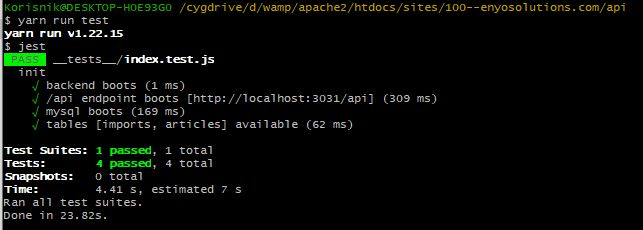
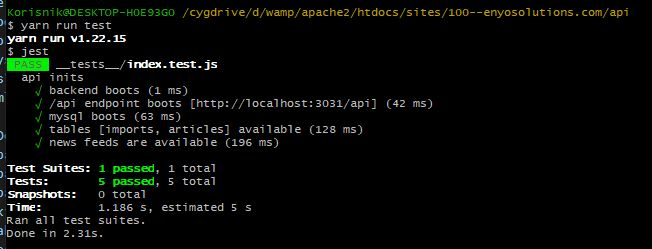
articles resource done

Changed region(s): [[0.0, 0.0, 0.9642, 1.0]]

diff --git a/routes/api.js b/routes/api.js
@@ -1,14 +1,29 @@
 var express = require("express");
 var router = express.Router();
+const axios = require("axios");
 const { client } = require("../src/mysq-connection");
+const {
+  has,
+  isString,
+  longestString,
+  _map,
+  mysqlDate,
+  parseXmlString,
+  vowelCount,
+} = require("../src/util");
+//
+const FEEDS = [
+  "https://www.lemonde.fr/rss/une.xml",
+  "https://www.theguardian.com/world/europe-news/rss",
+];
 
 //
-// api welcome response
-// POST /api
-router.get("/", function (req, res, next) {
+// api about
+// GET /api
+router.get("/", (_req, res) => {
   res.json({
     "app.name": "demo:enyosolutions",
-    "api.github": "https://github.com/nikolav/demo-app-enyosolutions"
+    "api.github": "https://github.com/nikolav/demo-app-enyosolutions",
   });
 });
 //
@@ -16,15 +31,17 @@ router.get("/", function (req, res, next) {
 /////////// TESTS ///////////
 /////////////////////////////
 // POST /api/test
-// for db connection test
+// db connection test
 router.post("/test", (req, res) => {
-  client.query(`select '${req.body.test}' as test`, (_error, result, _cols) => {
+  client.query(`select ? as test`, [req.body.test], (_error, result, _cols) => {
     return res.json({
       test: result[0].test,
     });
   });
 });
-router.get("/test/tables", (req, res) => {
+// verify tables exist
+// fetch row counts
+router.get("/test/tables", (_req, res) => {
   client.query(
     `
       select 
@@ -41,10 +58,125 @@ router.get("/test/tables", (req, res) => {
     }
   );
 });
+// verify news feeds are on
+// fetch row content
+router.get("/test/feeds", (_req, res) => {
+  Promise.all(FEEDS.map((feed) => axios(feed))).then((feeds) => {
+    res.json({
+      feeds: _map(feeds, "data"),
+    });
+  });
+});
 //
 /////////////////////////////////////////
 /////////// ARTICLES RESOURCE ///////////
 /////////////////////////////////////////
+//
+// read all articles; +longest-word-by-vowel-count
+// GET /api/articles
+router.get("/articles", (_req, res) => {
+  client.query(`select * from articles`, (error, articles, _cols) => {
+    if (error) throw error;
+    //
+    res.json({
+      articles: articles.map((article) => {
+        // make groups with the same vowel count
+        // store words accordingly
+        //   {[key: number]: string[]}
+        const groupByVowelCount = article.title
+          .split(/\s+/)
+          .reduce((w, word) => {
+            const vcWord = vowelCount(word);
+            if (has(w, vcWord)) {
+              w[vcWord].push(word);
+            } else {
+              w[vcWord] = [word];
+            }
+            //
+            return w;
+          }, {});
 
+        return {
+          // take longest word in a group with max vowel count
+          "word-with-the-most-vowels-in-the-title": longestString(
+            groupByVowelCount[Math.max(...Object.keys(groupByVowelCount))]
+          ),
+          ...article,
+        };
+      }),
+    });
+  });
+});
+//
+// load articles
+// POST /api/articles/import/?siteRssUrl
+router.post("/articles/import", (req, res) => {
+  const { siteRssUrl: feed } = req.query;
+  if (!feed) return res.json(null);
+  // fetch feed
+  axios(feed).then(({ data }) => {
+    // @xml2js
+    // https://github.com/Leonidas-from-XIV/node-xml2js
+    parseXmlString(data, (error, feed) => {
+      if (error) throw error;
+      // save articles
+      feed.rss.channel[0].item.forEach(articleSave);
+      // save raw rss json
+      importsSave(JSON.stringify(feed));
+      // data saved, signal success
+      res.json({ status: 1 });
+    });
+    //
+  });
+  //
+});
 //
 module.exports = router;
+
+//
+// heplers
+function articleSave(article) {
+  const { title, link, description, pubDate: publicationDate } = article;
+  const externalId = getGuid(article);
+  const mainPicture = article["media:content"][0]["$"].url;
+  //
+  client.query(
+    `
+    insert into articles
+      (description, externalId, link, mainPicture, publicationDate, title)
+
+    values
+      (?, ?, ?, ?, ?, ?)
+
+    on duplicate key update
+      description      = values(description),
+      link             = values(link),
+      mainPicture      = values(mainPicture),
+      publicationDate  = values(publicationDate),
+      title            = values(title)
+    `,
+    [
+      description[0],
+      externalId,
+      link[0],
+      mainPicture,
+      mysqlDate(publicationDate[0]),
+      title[0],
+    ]
+  );
+}
+function importsSave(data) {
+  client.query(
+    `
+    insert into imports 
+      (rawContent)
+    values (?)
+  `,
+    [data]
+  );
+}
+//
+function getGuid(article) {
+  const guid = article.guid[0];
+  return guid ? (isString(guid) ? guid : guid._) : null;
+}

diff --git a/__tests__/index.test.js b/__tests__/index.test.js
@@ -3,7 +3,7 @@ const qs = require("qs");
 const { isNumeric } = require("../src/util");
 
 //
-const API_URL_DEV        = "http://localhost:3031/api";
+const API_URL_DEV = "http://localhost:3031/api";
 const API_URL_PRODUCTION = "https://demo-enyosolutions.herokuapp.com/api";
 //
 const API_URL = API_URL_DEV;
@@ -12,27 +12,24 @@ const API_URL = API_URL_DEV;
 //
 //
 //
-describe("init", () => {
+describe("api inits", () => {
   //
   // run empty test, verify app runs
   it("backend boots", () => {});
   //
-  // send dummy data to see if server got it
+  // fetch dummy data to see if server got it
   it(`/api endpoint boots [${API_URL}]`, (done) => {
-    axios({
-      method: "get",
-      url: API_URL,
-    })
+    axios(API_URL)
       .then(({ data }) => {
-        // all good, test success
         expect(data["app.name"]).toBe("demo:enyosolutions");
+        // all good, test success
         done();
       })
       .catch((error) => done({ error }));
   });
   //
   // test db connection
-  // send dummy query to see if db boots
+  // fetch dummy data to see if db is on
   it("mysql boots", (done) => {
     const testData = "TEST-DATA-2";
     axios({
@@ -44,22 +41,36 @@ describe("init", () => {
     })
       .then(({ data }) => {
         expect(data.test).toBe(testData);
+        // db query run ok
         done();
       })
       .catch((error) => done({ error }));
   });
   //
   // test if tables are there
-  // count records to see if totals get returned
+  // fetch record totals to see if they get returned
   it("tables [imports, articles] available", (done) => {
     axios({
       method: "get",
       url: `${API_URL}/test/tables`,
     })
       .then(({ data }) => {
+        expect([data.totalArticles, data.totalImports].every(isNumeric)).toBe(
+          true
+        );
+        done();
+      })
+      .catch((error) => done({ error }));
+  });
+  //
+  // verify news feeds are live
+  it("news feeds are available", (done) => {
+    axios(`${API_URL}/test/feeds`)
+      .then(({ data }) => {
         expect(
-          [data.totalArticles, data.totalImports].every(isNumeric)
+          data.feeds.every((feed) => null != feed && 0 < String(feed).length)
         ).toBe(true);
+        // reading feeds ok, signal ok
         done();
       })
       .catch((error) => done({ error }));

diff --git a/src/util/index.js b/src/util/index.js
@@ -1,5 +1,23 @@
+const { getType } = require("./get-type");
 const { isNumeric } = require("./is-numeric");
+const { isString } = require("./is-string");
+const { isObject } = require("./is-object");
+const { parseXmlString } = require("./xml-parser");
+const { mysqlDate } = require("./mysql-date");
+const { vowelCount } = require("./vowel-count");
+const { has } = require("./has");
+const { longestString } = require("./longest-string");
+const { map: _map } = require("lodash");
 //
 module.exports = {
+  getType,
+  has,
   isNumeric,
+  isObject,
+  isString,
+  longestString,
+  _map,
+  mysqlDate,
+  parseXmlString,
+  vowelCount,
 };

diff --git a/src/util/mysql-date.js b/src/util/mysql-date.js
@@ -1,0 +1,20 @@
+const mysqlDate = (date) => {
+  date = new Date(date);
+  date =
+    date.getUTCFullYear() +
+    "-" +
+    ("00" + (date.getUTCMonth() + 1)).slice(-2) +
+    "-" +
+    ("00" + date.getUTCDate()).slice(-2) +
+    " " +
+    ("00" + date.getUTCHours()).slice(-2) +
+    ":" +
+    ("00" + date.getUTCMinutes()).slice(-2) +
+    ":" +
+    ("00" + date.getUTCSeconds()).slice(-2);
+  return date;
+};
+
+module.exports = {
+  mysqlDate,
+};

diff --git a/mod.js b/mod.js
@@ -1,19 +1,2 @@
-const { client } = require("./src/mysq-connection");
 
-//
-client.connect(error => {
-    if (error)
-      throw error;
-    
-    client.query(
-        `select 'TEST-DATA' as test`,
-        (err, res, fields) => {
-            console.log(err);
-            console.log(res);
-            console.log(fields);
-
-        }
-    )
-
-});
-
+console.log("a'a".replace("'", "''"))

diff --git a/src/util/longest-string.js b/src/util/longest-string.js
@@ -1,0 +1,12 @@
+const longestString = (ls = []) =>
+  ls.reduce(
+    (s, text) => {
+      if (s.s.length < text.length) s.s = text;
+      return s;
+    },
+    { s: "" }
+  ).s;
+//
+module.exports = {
+  longestString,
+};

diff --git a/src/util/vowel-count.js b/src/util/vowel-count.js
@@ -1,0 +1,7 @@
+const reVowel = /^[aeiouy]$/i;
+const vowelCount = (text) =>
+  Array.prototype.filter.call(text, (ch) => reVowel.test(ch)).length;
+//
+module.exports = {
+  vowelCount,
+};

diff --git a/src/util/is-object.js b/src/util/is-object.js
@@ -1,0 +1,6 @@
+const { getType } = require("./get-type");
+const OBJECT = getType({});
+//
+module.exports = {
+  isObject: (node) => OBJECT === getType(node),
+};

diff --git a/src/util/has.js b/src/util/has.js
@@ -1,0 +1,4 @@
+const has_ = Function.prototype.call.bind(Object.prototype.hasOwnProperty);
+module.exports = {
+  has: (node, key) => has_(Object(node), key),
+};

diff --git a/src/util/is-string.js b/src/util/is-string.js
@@ -1,0 +1,6 @@
+const { getType } = require("./get-type");
+const STRING = getType("a");
+
+module.exports = {
+  isString: (node) => STRING === getType(node),
+};

diff --git a/src/util/xml-parser.js b/src/util/xml-parser.js
@@ -1,0 +1,5 @@
+const { parseString } = require("xml2js");
+
+module.exports = {
+  parseXmlString: parseString,
+};
